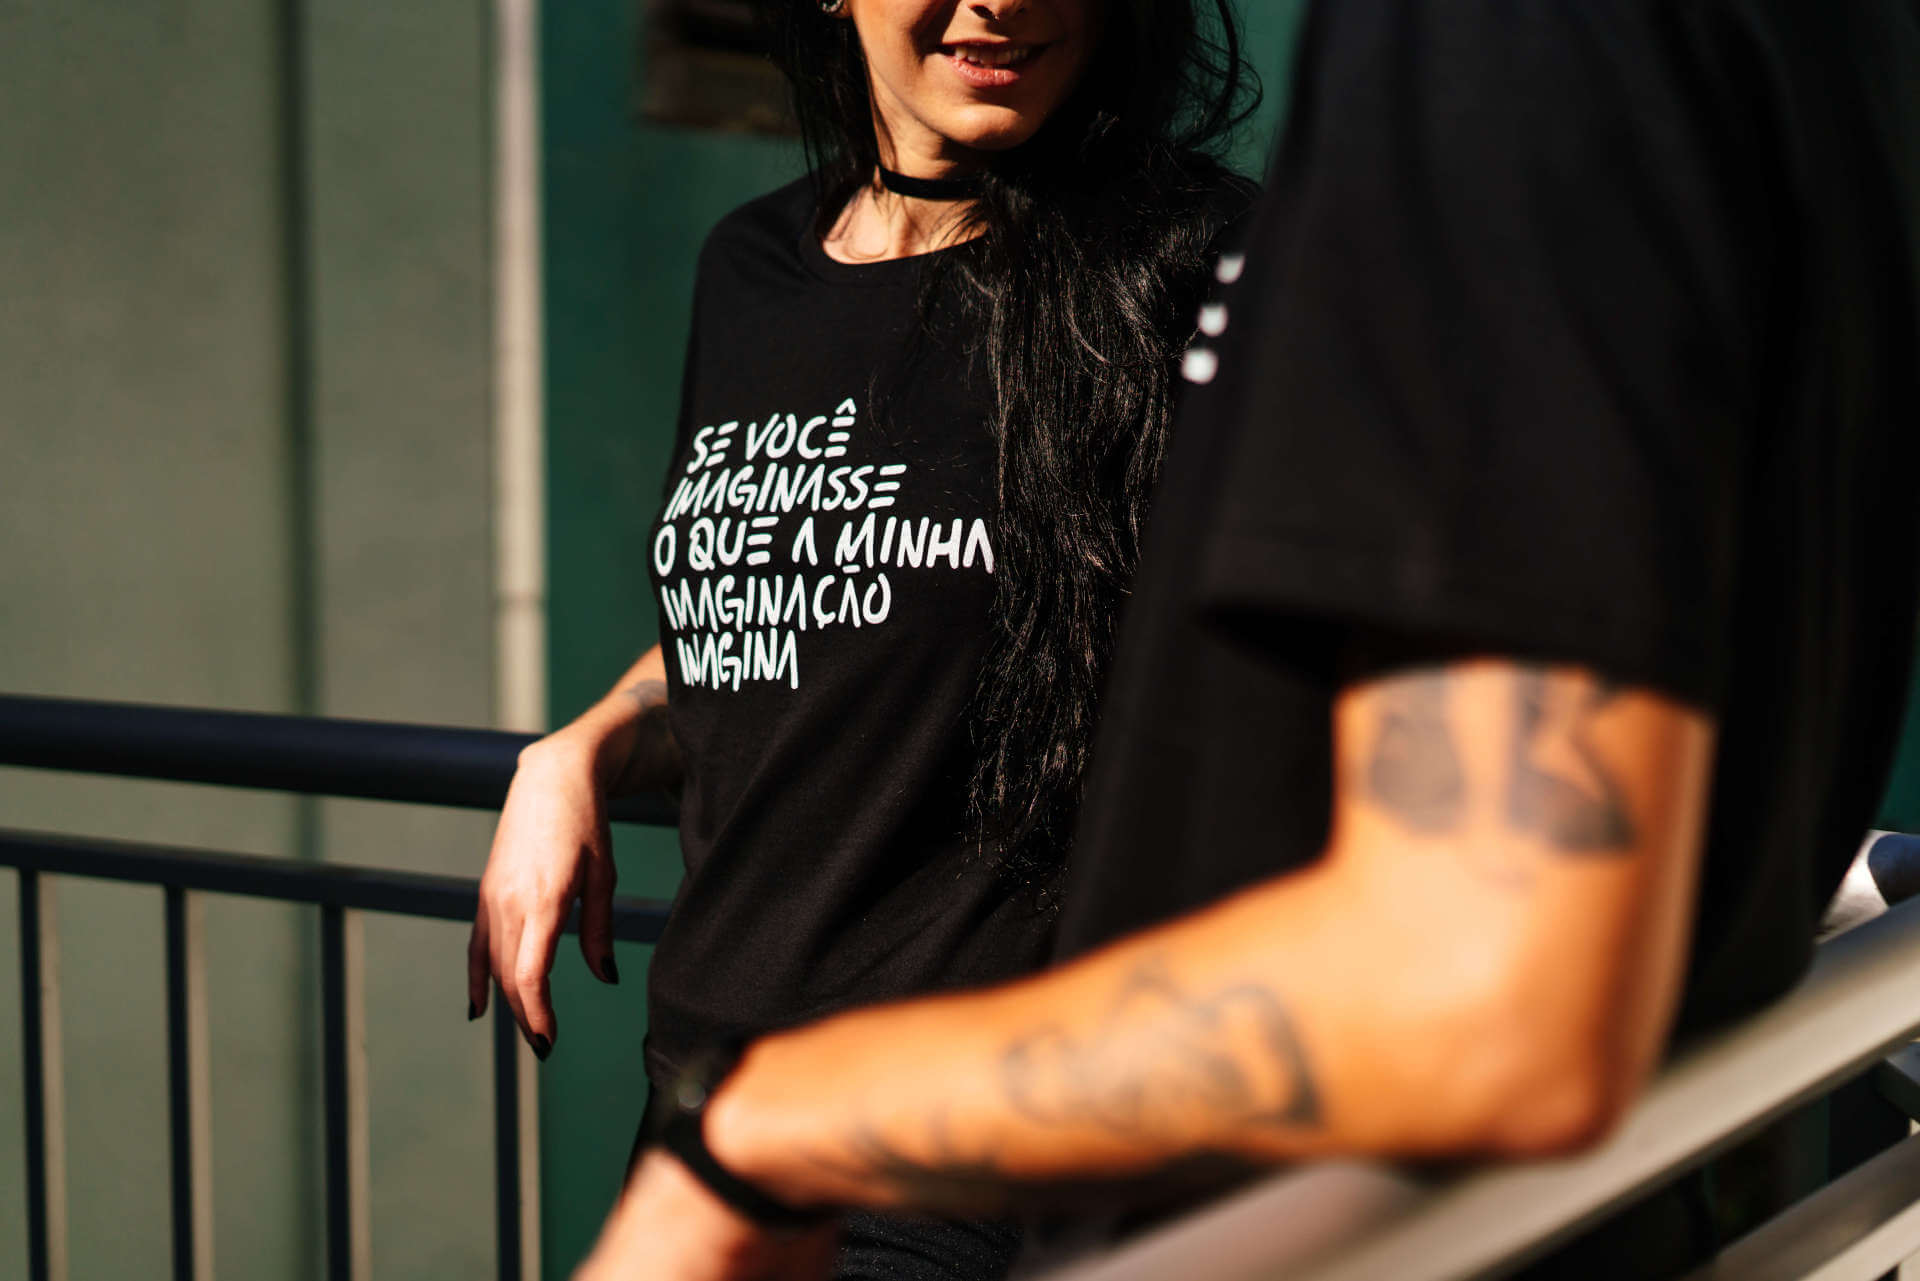
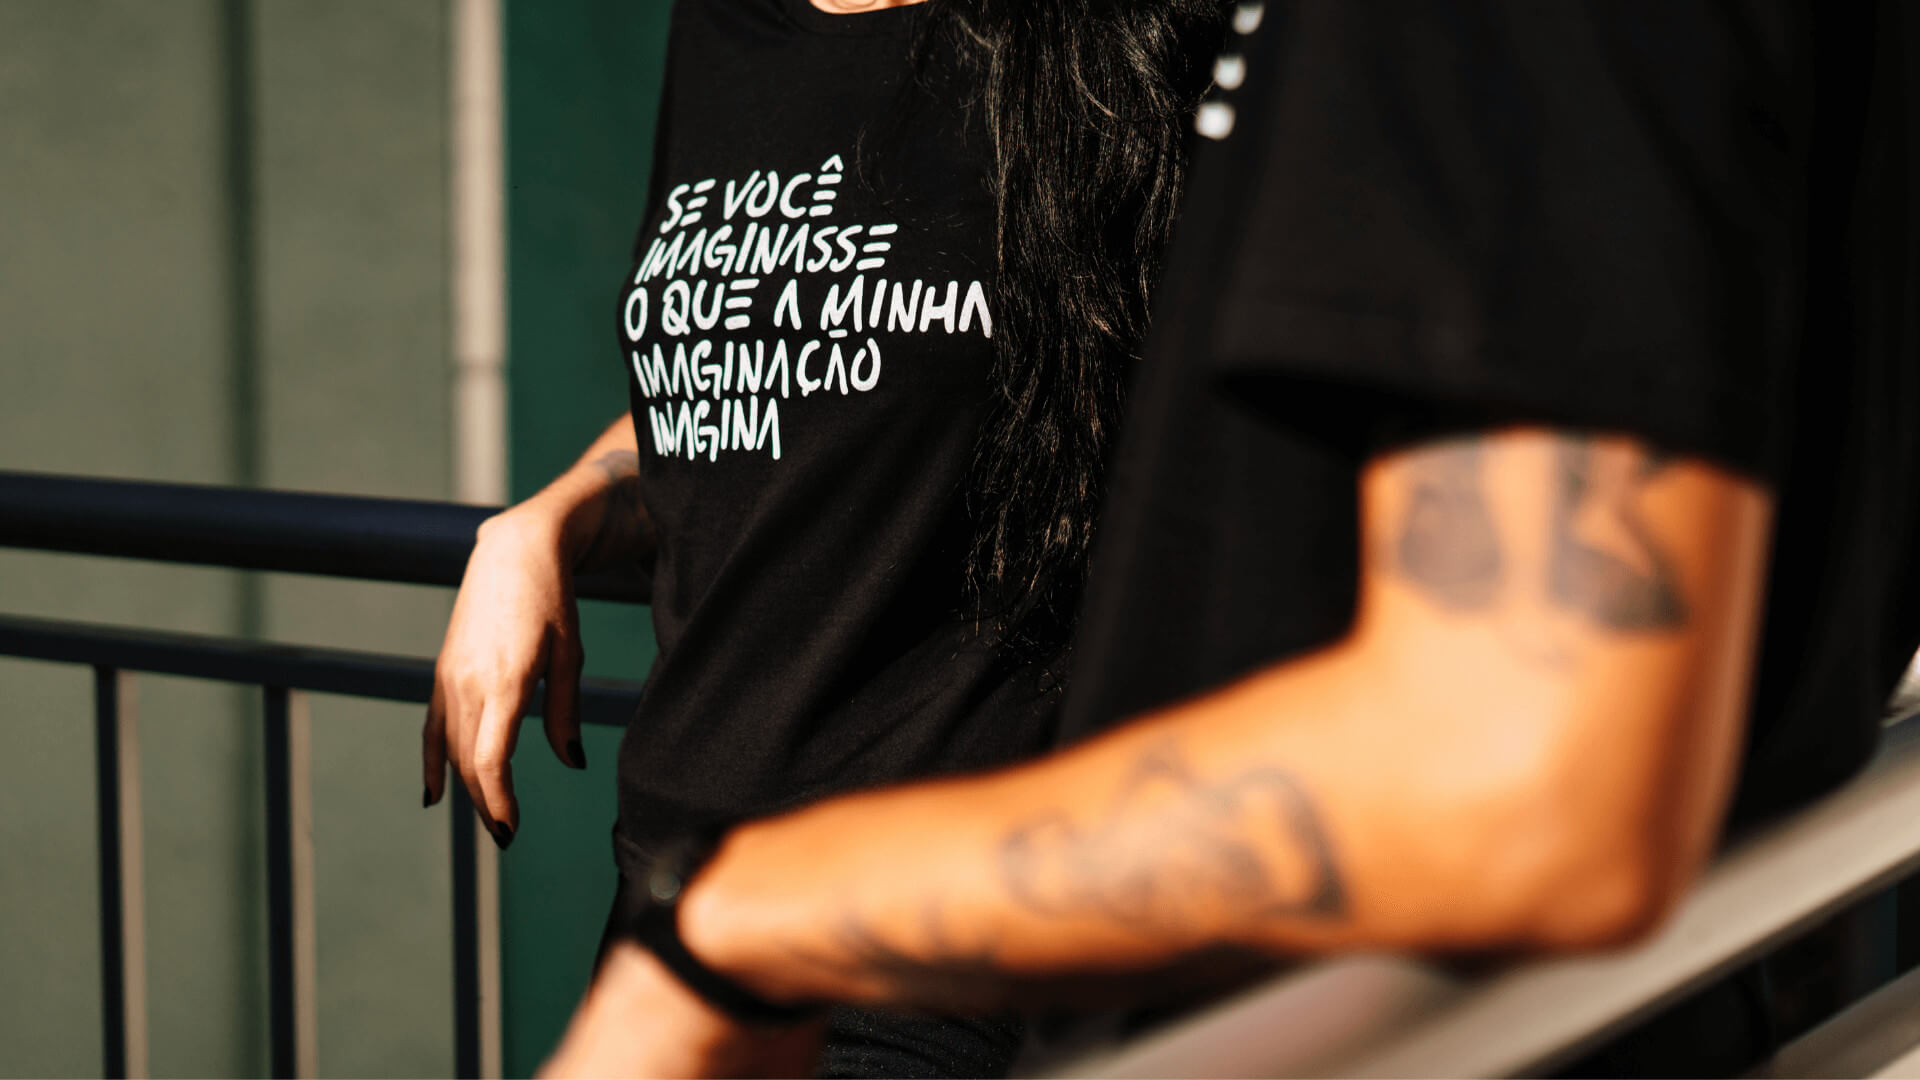
Menu fixes mobile v2.4 block1 new background picture

diff --git a/site/web/app/themes/nos/resources/assets/styles/components/_home.scss b/site/web/app/themes/nos/resources/assets/styles/components/_home.scss
@@ -1,7 +1,7 @@
 .blockhome-1 {
   background-image: url("../images/home/block1-hdbg.jpg");
   background-size: cover;
-  background-position: right;
+  background-position: center;
 
   // .blockhome-1-container {
   //   top: 0;blockhome-1-container
